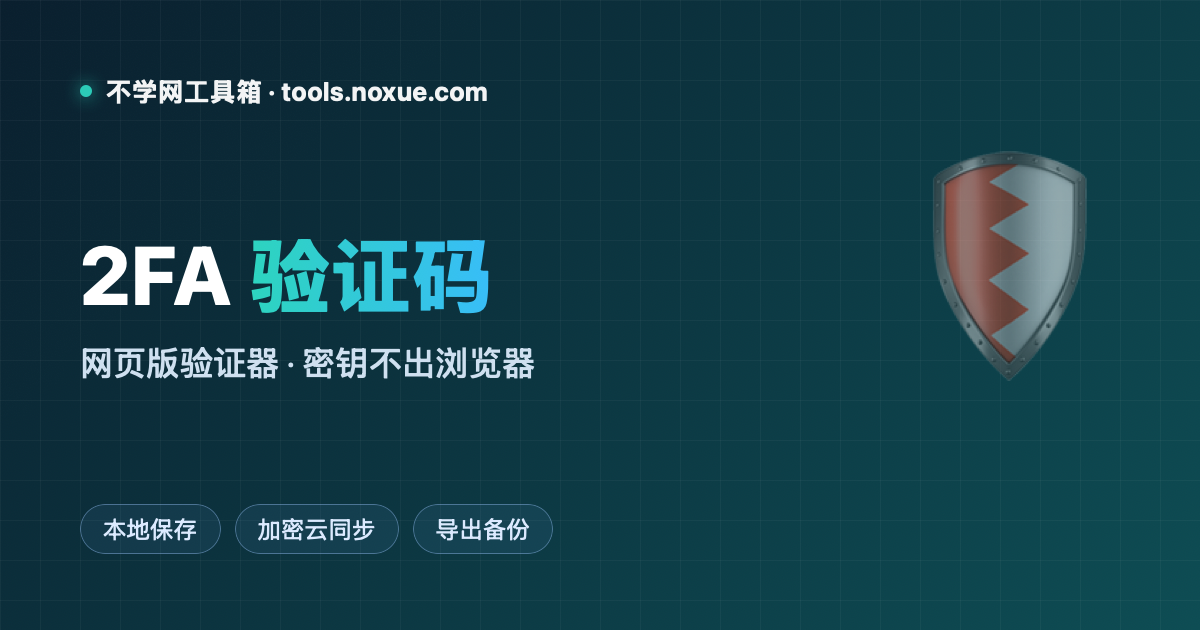
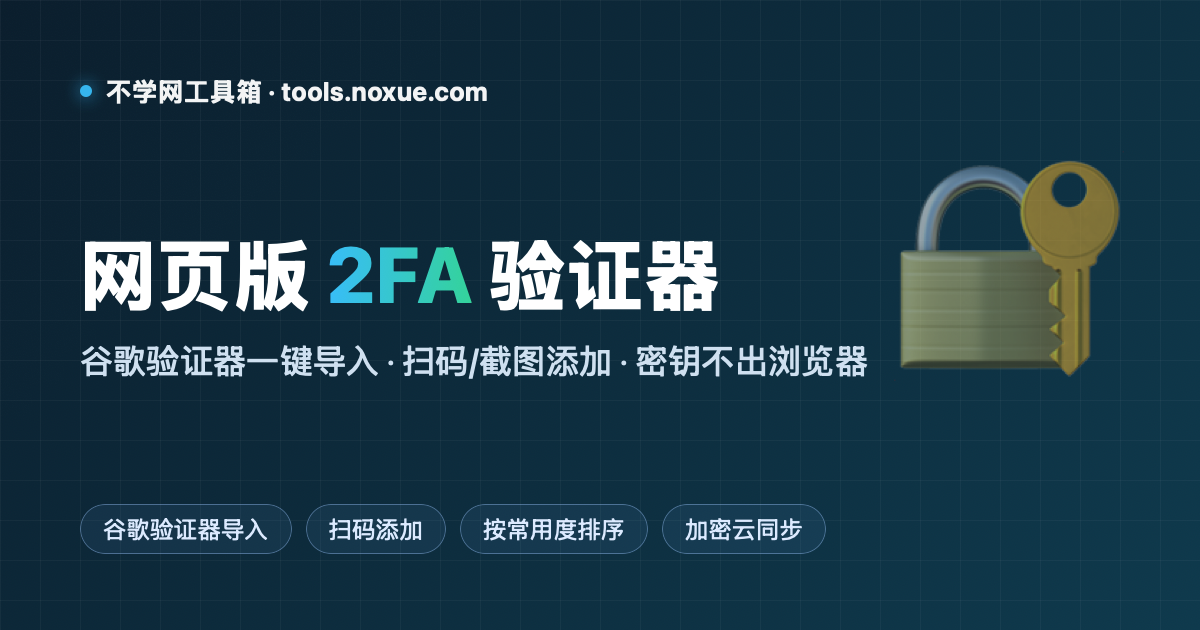
post: 2FA 文章重制 —— 谷歌验证器一键导入 + 扫码/截图添加 + 常用置顶
按更新后的工具重写 tool-totp 宣传文：新增「从谷歌验证器一键导入」为主线，
补扫码/选图添加、按复制次数置顶；换新封面与三张截图（导入对话框/添加区/
验证码列表），日期前移重新置顶发布。

Claude-Session: https://claude.ai/code/session_01T3GpGVx46yYXfKp8RsypjT

diff --git a/content/posts/tool-totp/index.md b/content/posts/tool-totp/index.md
@@ -1,50 +1,61 @@
 ---
-title: "网页版 2FA 验证器：密钥不出浏览器，还能加密云同步到多设备"
-subtitle: "本地保存 TOTP 账号，可导出备份、端到端加密同步"
-date: 2026-08-11T09:50:00+08:00
+title: "网页版 2FA 验证器：谷歌验证器一键导入，密钥不出浏览器"
+subtitle: "扫码 / 截图 / 链接导入 TOTP，本地保存、常用置顶、可加密云同步"
+date: 2026-08-14T14:20:00+08:00
 draft: false
 author: "noxue"
-tags: ["2FA", "TOTP", "安全", "在线工具"]
+tags: ["2FA", "TOTP", "谷歌验证器", "安全", "在线工具"]
 categories: ["小工具"]
 featuredImage: "cover.png"
 math: false
 lightgallery: true
 ---
 
-Google Authenticator 换手机就抓瞎、验证码不能在电脑上看？**不学网工具箱** 的 [2FA 两步验证码](https://tools.noxue.com/totp/) 是个网页版验证器：密钥只存在你自己的浏览器里，电脑上随时看验证码，还能导出备份、端到端加密同步到多台设备。
+换手机迁移谷歌验证器很麻烦、验证码又不能在电脑上看？**不学网工具箱** 的 [2FA 两步验证码](https://tools.noxue.com/totp/) 是个网页版验证器：能**一键导入 Google Authenticator（谷歌验证器）的全部账号**，也能扫码 / 截图 / 手动添加；密钥只存在你自己的浏览器里，不发到服务器。
 
 <!--more-->
 
-## 特点
+## 亮点
 
-- **本地保存**：密钥存在浏览器（localStorage + IndexedDB 双备份），不发到服务器。
-- **实时验证码**：6/8 位、SHA-1/256/512 都支持，剩 5 秒会变红闪烁提醒。
-- **点一下就复制**：点验证码即复制，不用手抄。
-- **导出 / 导入备份**：换设备前导出 JSON，随时迁移。
-- **端到端加密云同步**：用一组助记词把账号在本地加密后再上传，服务器只存密文、看不到你的密钥；另一台设备输入同一助记词即可恢复。
+- **谷歌验证器一键导入**：解析官方「导出账号」二维码，一次性把所有账号搬进来。
+- **多种添加方式**：摄像头扫码、选二维码图片（截图最稳）、粘贴 `otpauth://` 链接、手动输入密钥。
+- **密钥只在本地**：localStorage + IndexedDB 双备份，绝不上传。
+- **常用自动置顶**：按复制次数排序，天天用的账号排最前，不用每次搜索。
+- **实时验证码**：6/8 位、SHA-1/256/512 都支持，点一下即复制，快过期变红闪烁。
+- **导出备份 + 端到端加密云同步**：换设备无缝迁移。
 
-## 第一步：添加账号
+## 一、从谷歌验证器一键导入（推荐）
 
-在「添加新账号」里填个备注名（比如 GitHub、币安），把网站给的 **Base32 密钥** 粘进去——或者直接粘 `otpauth://` 链接，名称和参数会自动识别。
+在手机上打开「Google 身份验证器」→ 右上角 ⋮ →「转移账号」→「导出账号」→ 勾选要迁移的账号 → 生成一张导出二维码。然后在本工具点「**从谷歌验证器导入**」，把这张二维码**截图**后选图（或用扫码工具扫出 `otpauth-migration://` 链接粘进来），工具会解析出全部账号，勾选后一键导入：
 
-![TOTP 工具的添加账号表单：备注名、密钥输入框、位数与算法选择、预览](step2-add.png "① 填备注名 + 密钥（或粘 otpauth:// 链接）")
+![从谷歌验证器导入：解析导出二维码，列出账号勾选导入](step1-import.png "① 解析谷歌验证器导出码，批量勾选导入")
+
+{{< admonition type="tip" title="识别不出来？换「截图」" open=true >}}
+导出二维码很密集，**直接拍电脑 / 手机屏幕的照片容易糊、识别不出**。最稳的是把二维码**截图**保存成图片再选图导入；安卓 Chrome 支持系统级识别，成功率更高。全程在你浏览器本地完成，密钥不会上传。
+{{< /admonition >}}
+
+## 二、扫码 / 截图 / 手动，添加单个账号
+
+只加一个账号时，点「📷 扫码添加」用摄像头扫，或「🖼 选二维码图片」选一张截图；也能直接粘 `otpauth://` 链接或手动输入 Base32 密钥，名称和参数会自动识别。
+
+![添加新账号：扫码、选二维码图片、手动输入密钥，含位数与算法](step2-add.png "② 扫码 / 选图 / 手动，多种方式添加")
 
 {{< admonition type="tip" title="密钥从哪来" open=true >}}
 就是网站开启两步验证时，二维码旁边那串「手动输入密钥 / setup key」。
 {{< /admonition >}}
 
-## 第二步：随时看验证码，点一下复制
+## 三、实时验证码，常用的自动排最前
 
-保存后，账号出现在「我的验证码」列表里，每 30 秒刷新一次，**点验证码即可复制**。左边的环形进度和倒计时告诉你还剩几秒，快过期时会变红闪烁。
+账号都在「我的验证码」列表里，每 30 秒刷新，**点验证码即可复制**。列表**按复制次数排序**——你天天用的账号会自动置顶，不用每次在一堆账号里翻找。左侧环形进度和倒计时告诉你还剩几秒，快过期时变红闪烁。
 
-![TOTP 工具的验证码列表：每个账号显示实时 6 位验证码、剩余秒数环形进度](step1-codes.png "② 实时验证码，点一下即复制")
+![验证码列表：多个账号实时 6 位码、剩余秒数环形进度，常用置顶](step3-codes.png "③ 实时验证码，常用账号自动置顶")
 
-{{< admonition type="danger" title="助记词 = 云端数据的唯一钥匙" open=true >}}
-开了加密云同步后，那 12 个助记词是解开云端数据的唯一钥匙。请离线抄好，忘了就永久打不开，谁也帮不了你找回。
+{{< admonition type="danger" title="密钥只在你手上" open=true >}}
+所有密钥只存在本机浏览器，也可导出 JSON 备份随时迁移。若开启加密云同步，那 12 个助记词是解开云端数据的唯一钥匙，请离线抄好，忘了就永久打不开，谁也帮不了你找回。
 {{< /admonition >}}
 
 ## 搭配使用
 
-先用 [密码生成器](https://tools.noxue.com/password/) 生成强密码，再用这个管好 2FA，账号安全就比较到位了。
+先用 [密码生成器](https://tools.noxue.com/password/) 生成强密码，再用这个管好 2FA；换机时直接用上面的「一键导入」把谷歌验证器整体搬过来即可。
 
 工具地址：**[https://tools.noxue.com/totp/](https://tools.noxue.com/totp/)**
